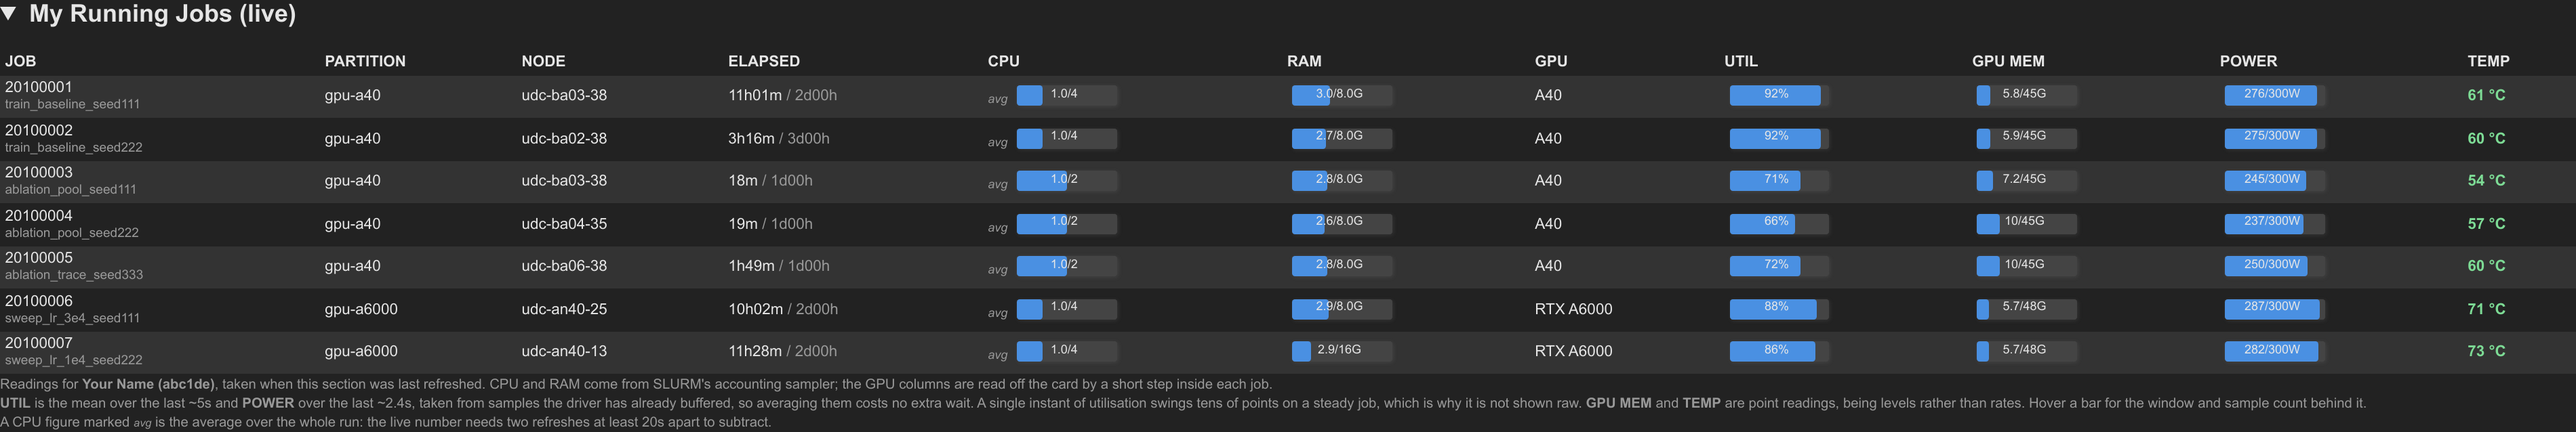
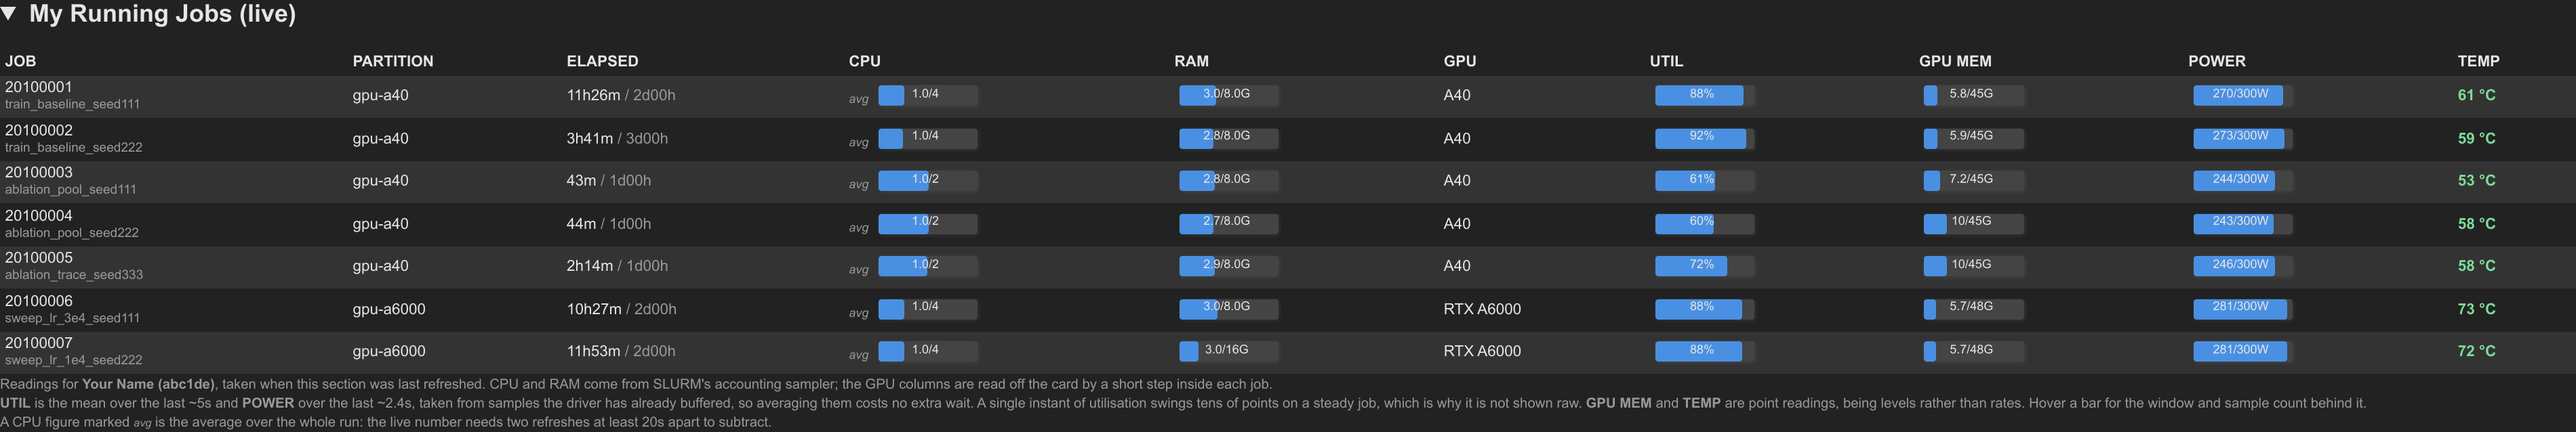
drop the NODE column from the my-jobs table
Which node a job landed on says nothing about how the job is doing, which
is what the rest of the row is for, and it cost a column on a table that
was already the widest on the page. squeue no longer asks for the field
either.

diff --git a/index.html b/index.html
@@ -770,7 +770,7 @@
         color: #999;
     }
 
-    /* This table has eleven columns, so it needs the full width rather than the
+    /* This table has ten columns, so it needs the full width rather than the
        62% the other .table_big panels use. */
     #my_jobs table {
         width: 100%;

diff --git a/app.py b/app.py
@@ -2504,7 +2504,6 @@ MY_JOBS_FORMAT = (
     ("jobid", 16),
     ("name", 48),
     ("partition", 32),
-    ("nodelist", 32),
     ("timeused", 16),
     ("timelimit", 16),
     ("tres-alloc", 300),
@@ -3051,7 +3050,7 @@ def parse_my_jobs_to_table():
         del _CPU_SAMPLES[stale]
 
     now = time.time()
-    columns = ("JOB", "PARTITION", "NODE", "ELAPSED", "CPU", "RAM",
+    columns = ("JOB", "PARTITION", "ELAPSED", "CPU", "RAM",
                "GPU", "UTIL", "GPU MEM", "POWER", "TEMP")
     html = ["<table>", "<tr>"]
     html += [f"<th>{column}</th>" for column in columns]
@@ -3087,7 +3086,6 @@ def parse_my_jobs_to_table():
                     f'{escape(job["name"])}</span></td>'
                 )
                 html.append(f'<td{span}>{escape(job["partition"])}</td>')
-                html.append(f'<td{span}>{escape(job["nodelist"])}</td>')
                 html.append(
                     f"<td{span}>{_short_duration(elapsed)}"
                     f'<span class="queue-muted"> / {_short_duration(limit)}</span></td>'
